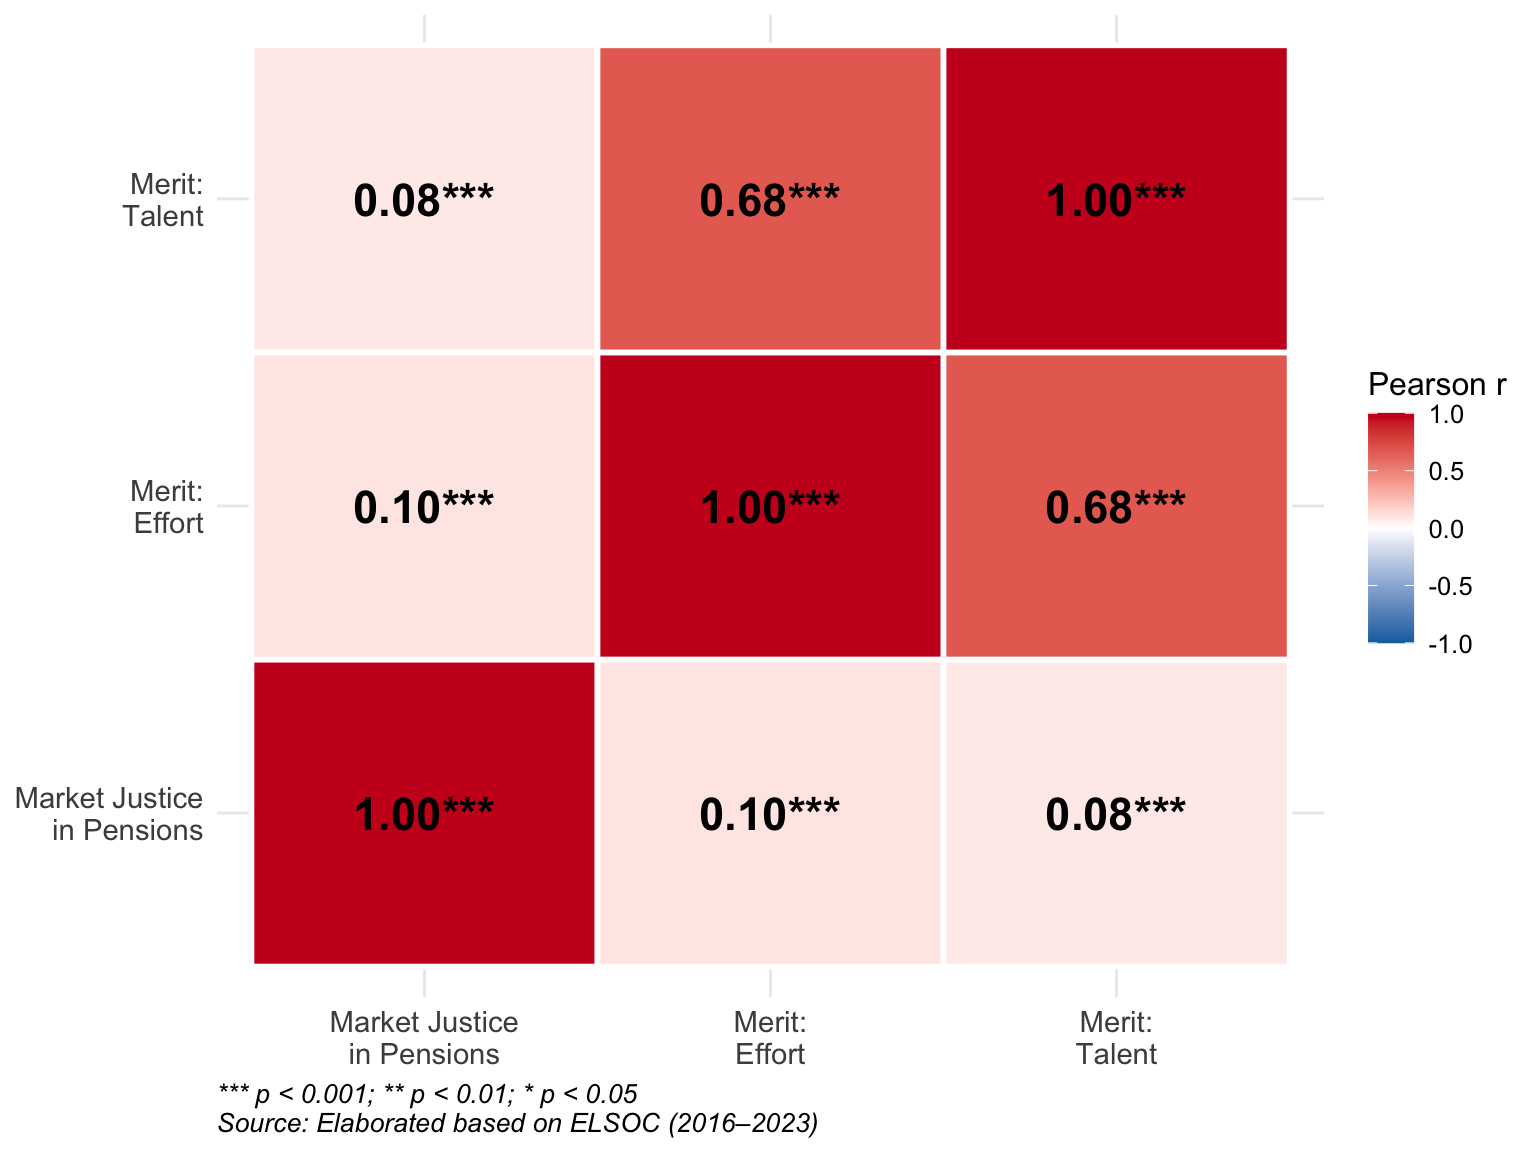
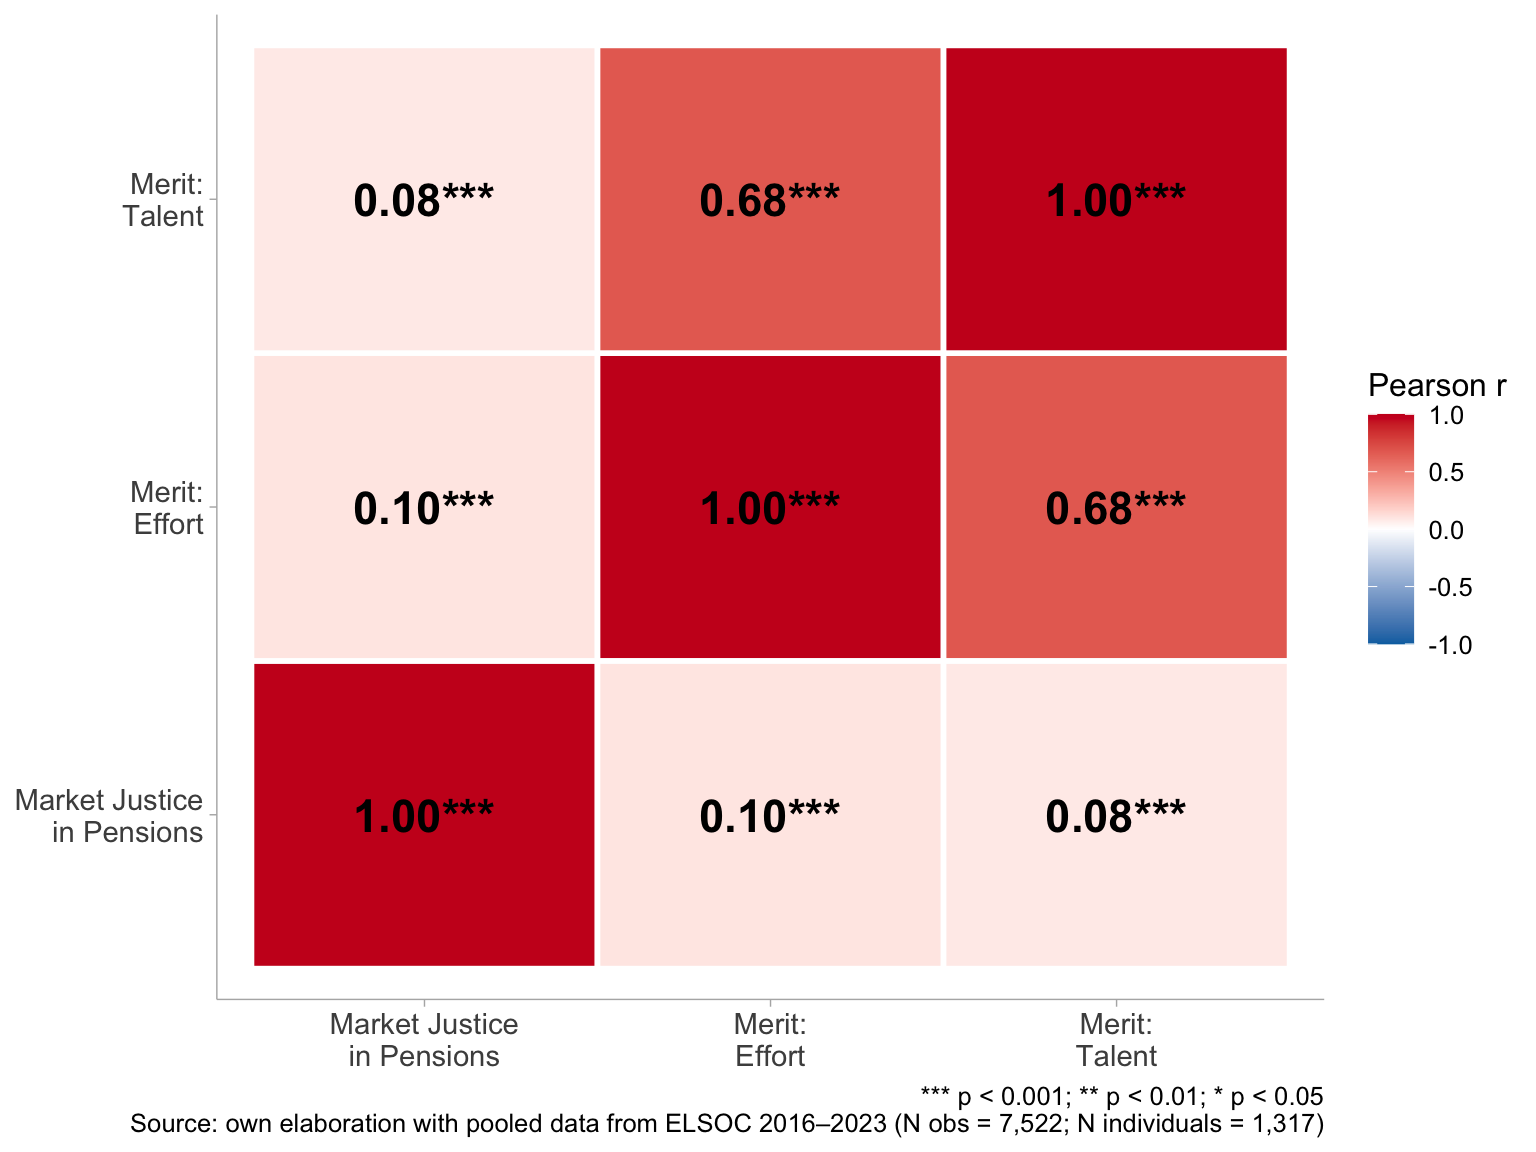
Up caption arreglados
La ref de Wilson sigue sin aparecer @tomasurzuam

diff --git a/paper/paper.html b/paper/paper.html
@@ -224,7 +224,7 @@ window.Quarto = {
 <span class="header-section-number">3.2.3</span> Meritocracy</h3>
 <p>Following Young’s <span class="citation" data-cites="young_rise_1975">(<a href="#ref-young_rise_1975" role="doc-biblioref">1975</a>)</span> distinction, this construct is operationalised into two dimensions: effort and talent. Both dimensions are measured by the degree of agreement with statements indicating that effort and talent are rewarded in society. Specifically, meritocratic perceptions of effort are captured by the item “In Chile, people are rewarded for their efforts” (Merit: Effort), and meritocratic perceptions of talent by the item “In Chile, people are rewarded for their intelligence and abilities” (Merit: Talent). Both items are answered on a 5-point Likert scale ranging from 1 (“Strongly disagree”) to 5 (“Strongly agree”), with higher values indicating stronger perceptions that Chilean society operates according to meritocratic principles.</p>
 <p><a href="#tbl-summary2" class="quarto-xref">Table&nbsp;1</a> shows the main variables of the study, their response categories and their frequencies.</p>
-<div id="tbl-summary2" class="cell quarto-float quarto-figure quarto-figure-center anchored" data-tbl-cap-location="top" data-inlcude="false">
+<div id="tbl-summary2" class="cell quarto-float quarto-figure quarto-figure-center anchored" data-inlcude="false" data-tbl-cap-location="top">
 <figure class="quarto-float quarto-float-tbl figure"><figcaption class="quarto-float-caption-top quarto-float-caption quarto-float-tbl" id="tbl-summary2-caption-0ceaefa1-69ba-4598-a22c-09a6ac19f8ca">
 Table&nbsp;1: Variable descriptive statistics for the last wave (2023)
 </figcaption><div aria-describedby="tbl-summary2-caption-0ceaefa1-69ba-4598-a22c-09a6ac19f8ca">
@@ -359,15 +359,15 @@ X_{BE_i} = \bar{X}_i
 <section id="descriptive-analysis" class="level2" data-number="4.1"><h2 data-number="4.1" class="anchored" data-anchor-id="descriptive-analysis">
 <span class="header-section-number">4.1</span> Descriptive analysis</h2>
 <p><a href="#fig-alluvial" class="quarto-xref">Figure&nbsp;1</a> depicts the temporal evolution of market justice preferences in pensions from 2016 to 2023. Each year presents percentage frequencies, and the flows between them reflect changes in opinion among the same people from one year to the next. The results indicate substantial attitudinal fluidity, with extensive cross-flows suggesting that many respondents revise their views over time rather than holding fixed positions. Most changes occur between adjacent categories, consistent with gradual shifts, although some movements span multiple categories. For example, among those who strongly disagreed with income-based pension access in 2019, about 15.2% remained in that position by 2022, while the remaining 12.5% shifted to other categories, primarily to disagreement or agreement. Overall, the majority continue to disagree with the notion that it is fair for higher-income people to receive better pensions than those with lower incomes. Yet, agreement has increased over time: the combined share of agree + strongly agree rises from 16.9% in 2019 to 28.4% in 2023 (an increase of roughly 11.5 percentage points). Transitions appear particularly turbulent during the 2019–2022 period—overlapping with social unrest and the pandemic—suggesting that these attitudes are responsive to major contextual shocks and shifts in pension-related public discourse.</p>
-<div class="cell fig-cap-location-bottom">
+<div class="cell fig-cap-location-top">
 <div class="cell-output-display">
-<div id="fig-alluvial" class="quarto-float quarto-figure quarto-figure-center anchored" data-cap-location="bottom" data-fig-pos="H">
-<figure class="quarto-float quarto-float-fig figure"><div aria-describedby="fig-alluvial-caption-0ceaefa1-69ba-4598-a22c-09a6ac19f8ca">
+<div id="fig-alluvial" class="quarto-float quarto-figure quarto-figure-center anchored" data-cap-location="top" data-fig-pos="H">
+<figure class="quarto-float quarto-float-fig figure"><figcaption class="quarto-float-caption-top quarto-float-caption quarto-float-fig" id="fig-alluvial-caption-0ceaefa1-69ba-4598-a22c-09a6ac19f8ca">
+Figure&nbsp;1: Changes in preferences for pension market justice over time (2016-2023)
+</figcaption><div aria-describedby="fig-alluvial-caption-0ceaefa1-69ba-4598-a22c-09a6ac19f8ca">
 <img src="paper_files/figure-html/fig-alluvial-1.png" class="img-fluid figure-img" style="width:100.0%" data-fig-pos="H">
 </div>
-<figcaption class="quarto-float-caption-bottom quarto-float-caption quarto-float-fig" id="fig-alluvial-caption-0ceaefa1-69ba-4598-a22c-09a6ac19f8ca">
-Figure&nbsp;1: Changes in the justification of inequality in pensions over time (2016-2023)
-</figcaption></figure>
+</figure>
 </div>
 </div>
 </div>
@@ -378,7 +378,7 @@ Figure&nbsp;1: Changes in the justification of inequality in pensions over time 
 <div class="cell-output-display">
 <div id="fig-scatter-corr" class="quarto-float quarto-figure quarto-figure-center anchored" data-cap-location="top" data-fig-pos="H">
 <figure class="quarto-float quarto-float-fig figure"><figcaption class="quarto-float-caption-top quarto-float-caption quarto-float-fig" id="fig-scatter-corr-caption-0ceaefa1-69ba-4598-a22c-09a6ac19f8ca">
-Figure&nbsp;2: Correlation matrix between meritocratic beliefs and market justice
+Figure&nbsp;2: Correlation matrix between meritocratic perceptions and market justice preferences in pension
 </figcaption><div aria-describedby="fig-scatter-corr-caption-0ceaefa1-69ba-4598-a22c-09a6ac19f8ca">
 <img src="paper_files/figure-html/fig-scatter-corr-1.png" class="img-fluid figure-img" style="width:85.0%" data-fig-pos="H">
 </div>
